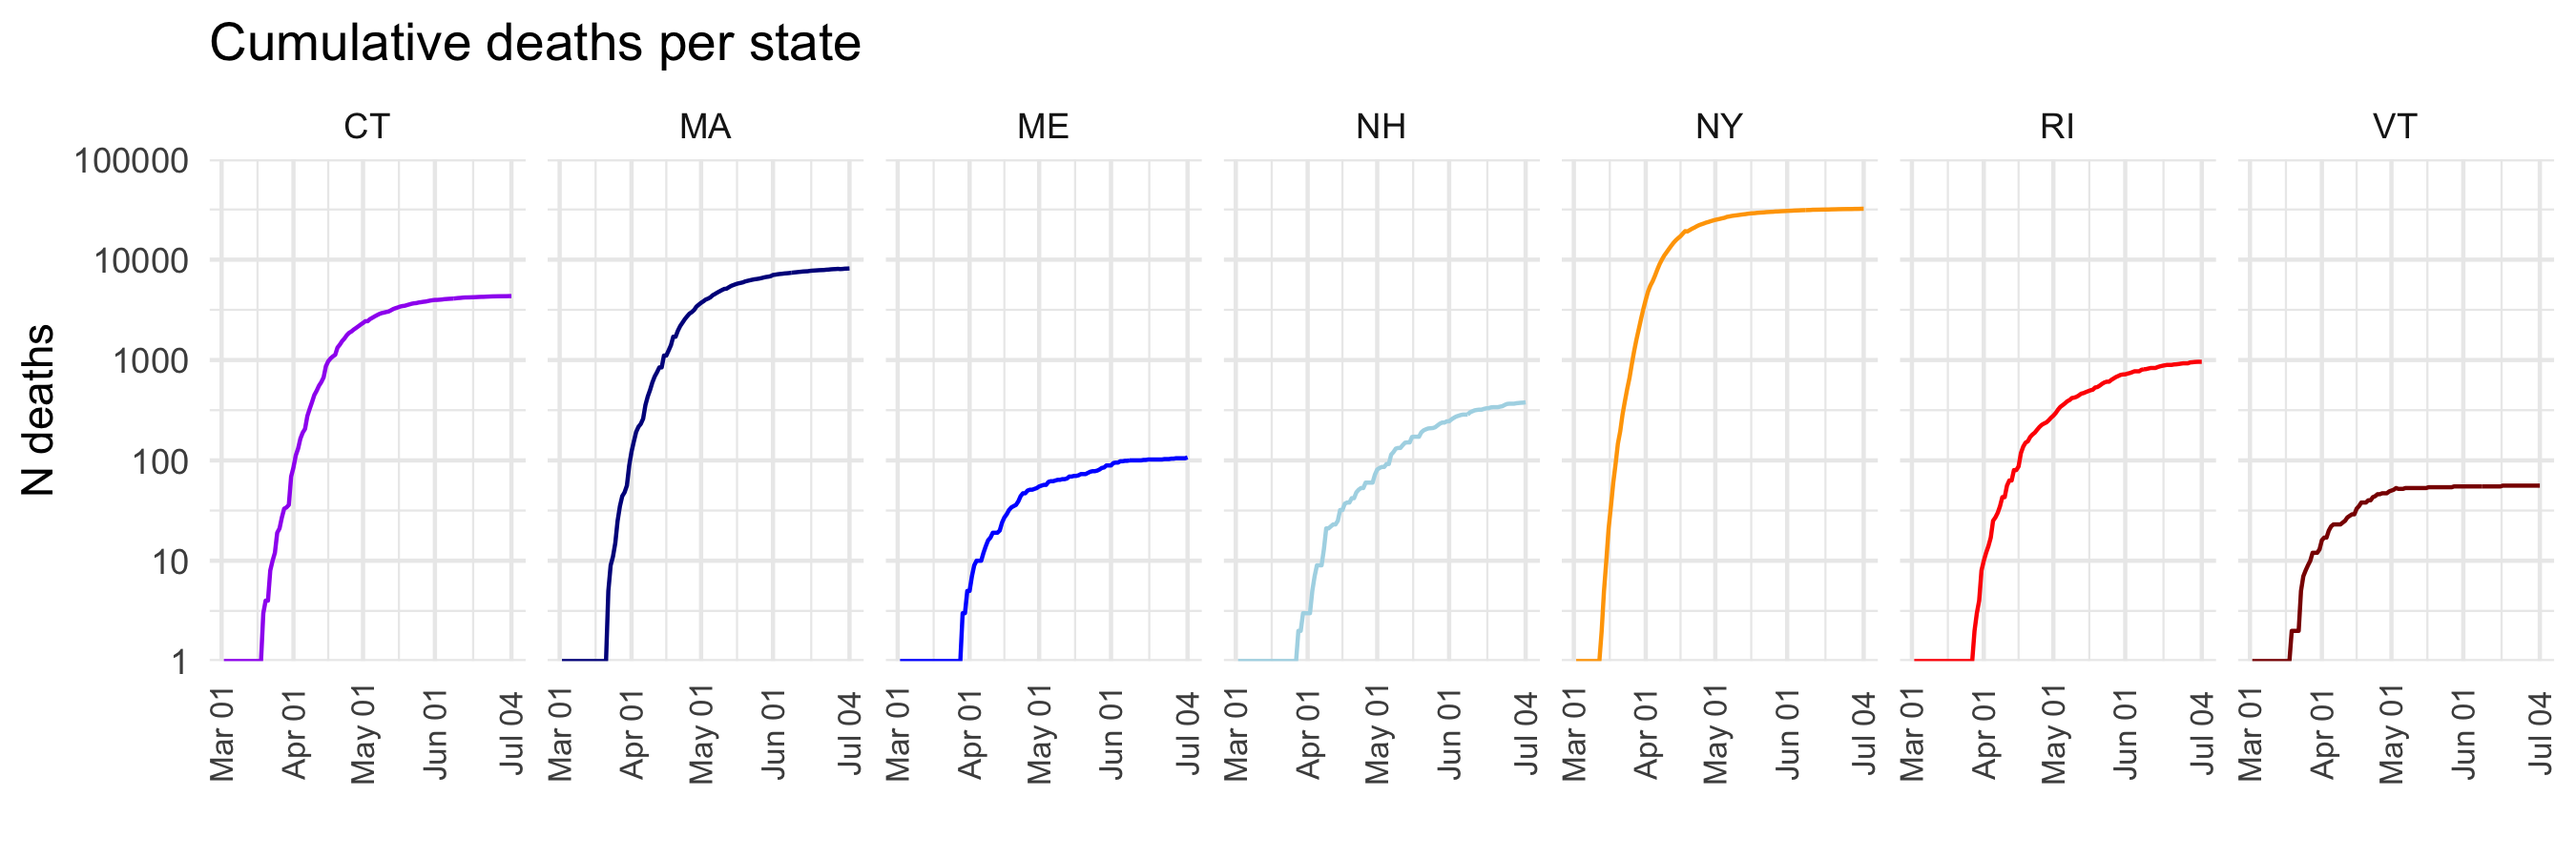
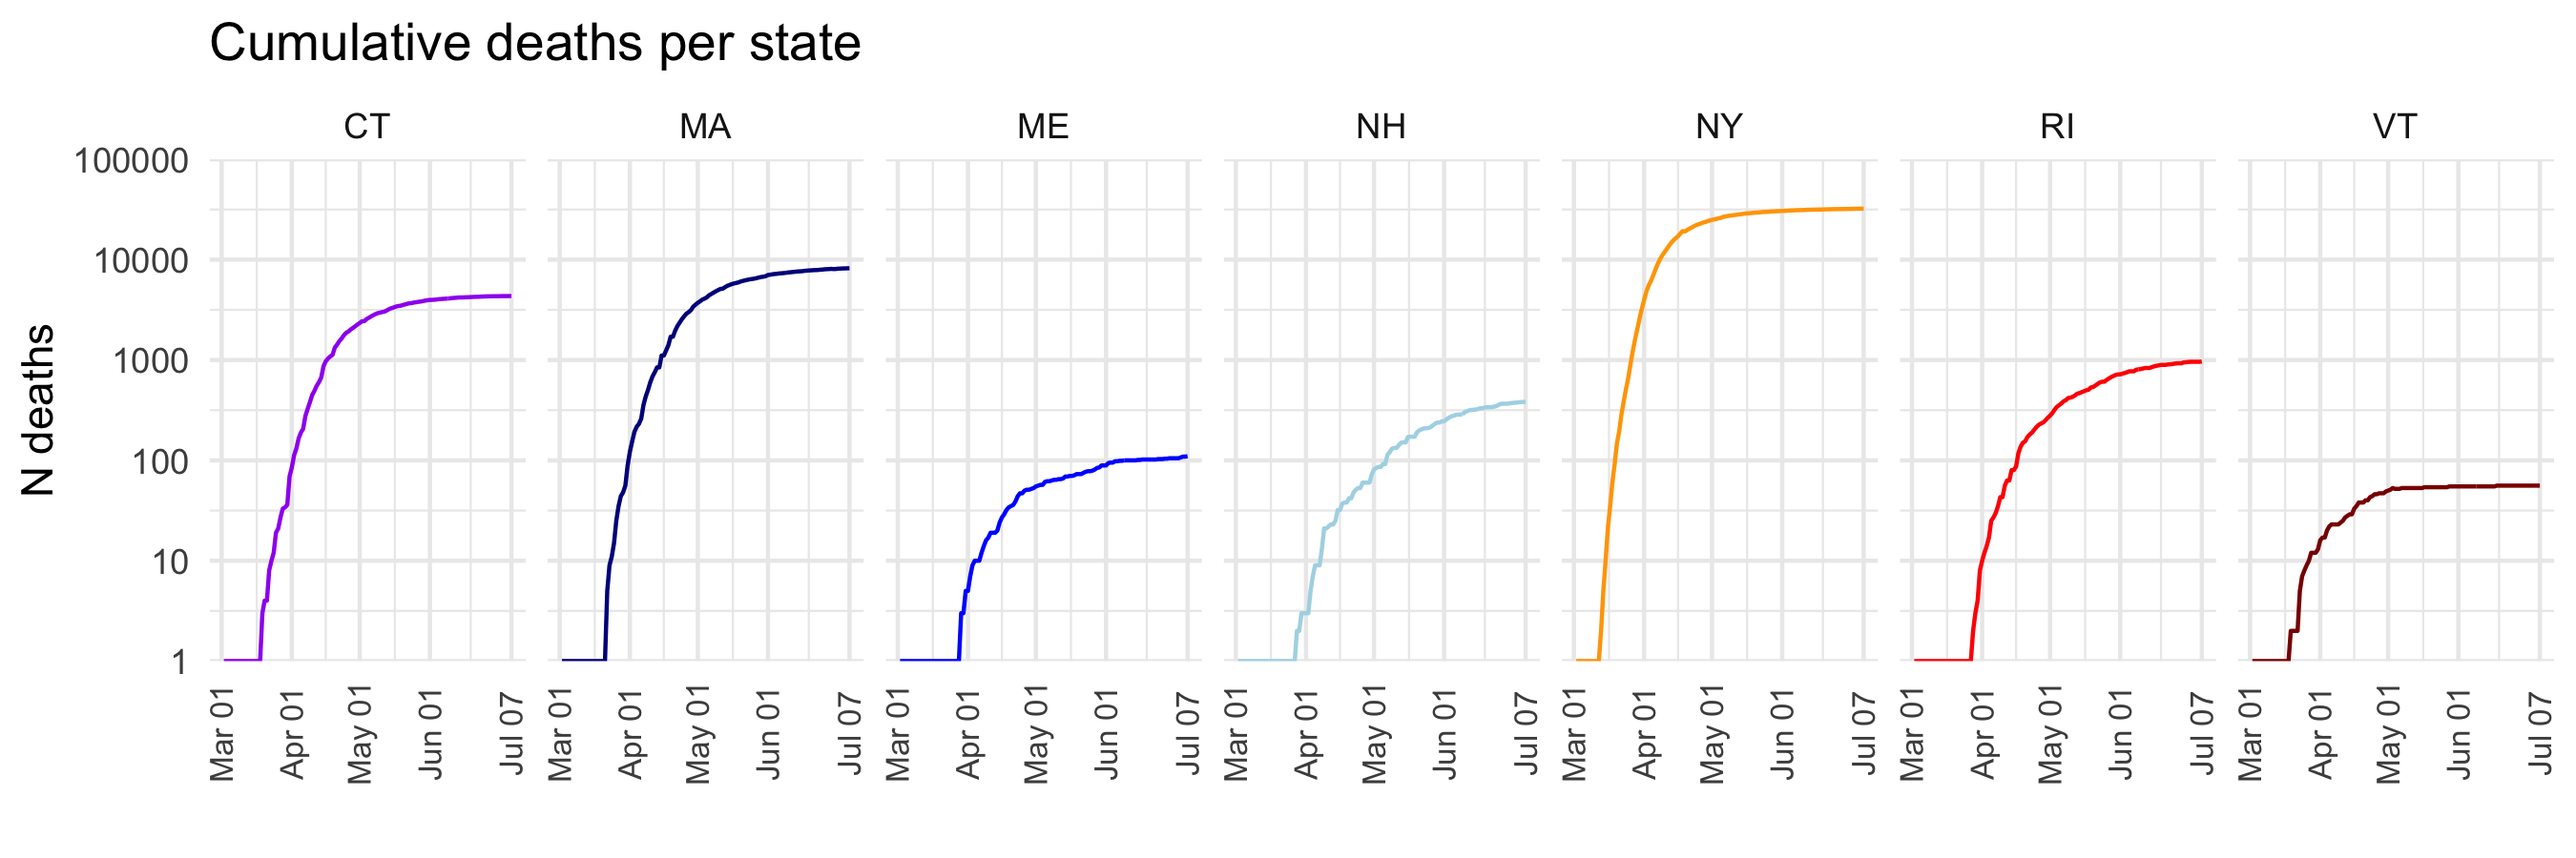
Package update on 2020-07-08 13:09:44

diff --git a/README.md b/README.md
@@ -12,7 +12,7 @@ around a focal point, in this case Worcester, MA, the home of Clark
 University. It also tries to show county-level detail available in state
 datasets.
 
-**Last update**: 2020-07-05 23:55:33
+**Last update**: 2020-07-08 13:09:39
 <img src="vignettes/figures/caserate_map.png" width="95%" style="display: block; margin: auto;" /><img src="vignettes/figures/case_map.png" width="95%" style="display: block; margin: auto;" /><img src="vignettes/figures/statecases_daily.png" width="95%" style="display: block; margin: auto;" /><img src="vignettes/figures/statecases_cumulative.png" width="95%" style="display: block; margin: auto;" /><img src="vignettes/figures/statedeaths_daily.png" width="95%" style="display: block; margin: auto;" /><img src="vignettes/figures/statedeaths_cumulative.png" width="95%" style="display: block; margin: auto;" />
 
 ## Notes
